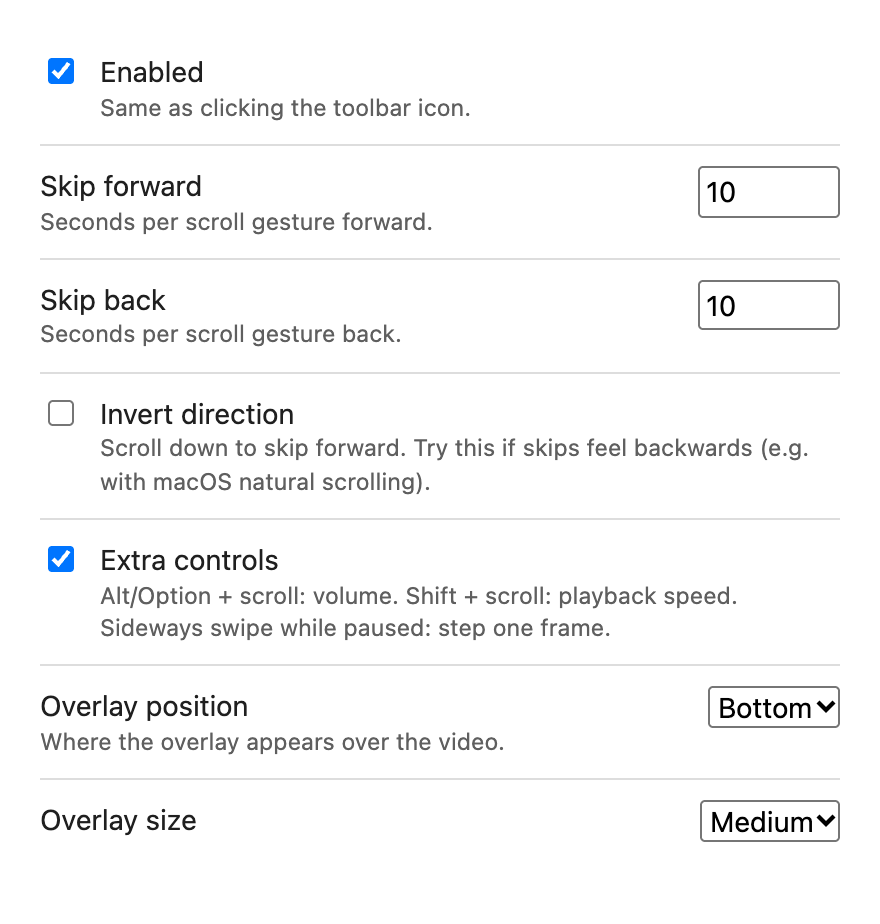
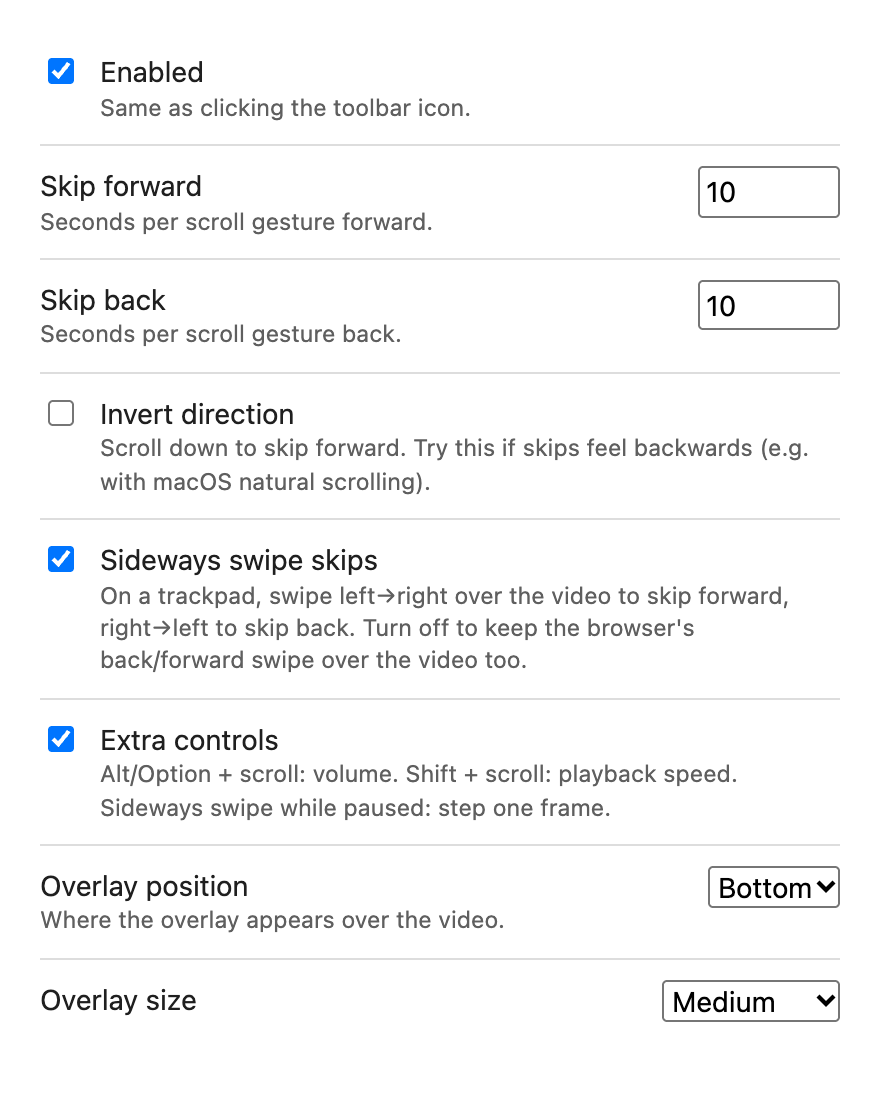
Skip on sideways trackpad swipes; take direction from the whole gesture
Mac trackpad users swipe sideways over the video. Those swipes were
passed to the browser while playing, so nothing skipped: Chrome
rubber-banded the page (left->right) or went back a page (right->left).

- Sideways swipes over the player now skip (fingers left->right =
  forward), behind a new "Sideways swipe skips" setting (horizontalSkip,
  default on). Paused + extra controls still steps one frame.
- Skip direction comes from the gesture's summed dx/dy instead of the
  single event that crossed MIN_GESTURE_PX: a wobbly sideways swipe
  could otherwise skip the wrong way.

Changed region(s): [[0.0307, 0.0303, 0.9511, 0.9394], [0.767, 0.1515, 0.9511, 0.3636], [0.0307, 0.8788, 0.2455, 0.9394]]

diff --git a/content.js b/content.js
@@ -286,6 +286,13 @@
     showToast(player, direction > 0 ? 'Next frame' : 'Previous frame', position(video), progressOf(video));
   }
 
+  // Skip direction from a movement: up or fingers left→right = forward, unless inverted.
+  // The larger axis wins, so it works for one event and for a whole (wobbly) gesture alike.
+  function skipDirection(dx, dy) {
+    const forward = Math.abs(dx) > Math.abs(dy) ? dx > 0 : dy < 0;
+    return forward !== settings.invert ? 1 : -1;
+  }
+
   // Decide what this wheel event means, or null to let the page handle it.
   function classify(e, video) {
     const horizontal = Math.abs(e.deltaX) > Math.abs(e.deltaY);
@@ -300,13 +307,17 @@
       return { action: 'volume', direction: e.deltaY < 0 ? 1 : -1, delta: e.deltaY };
     }
     if (horizontal) {
-      // While playing, sideways swipes stay the browser's (history back/forward).
-      if (!settings.modifierControls || !video.paused) return null;
-      return { action: 'frame', direction: e.deltaX > 0 ? 1 : -1, delta: e.deltaX };
+      // Paused: one frame per swipe (an extra control).
+      if (video.paused && settings.modifierControls) {
+        return { action: 'frame', direction: e.deltaX > 0 ? 1 : -1, delta: e.deltaX };
+      }
+      // Trackpads: fingers left→right skips forward. Over the player this replaces the browser's
+      // back/forward swipe; with the setting off, sideways swipes stay the browser's.
+      if (!settings.horizontalSkip || !e.deltaX) return null;
+      return { action: 'skip', direction: skipDirection(e.deltaX, 0), delta: e.deltaX };
     }
     if (!e.deltaY) return null;
-    const up = e.deltaY < 0;
-    return { action: 'skip', direction: up !== settings.invert ? 1 : -1, delta: e.deltaY };
+    return { action: 'skip', direction: skipDirection(0, e.deltaY), delta: e.deltaY };
   }
 
   function handleWheel(e) {
@@ -331,17 +342,20 @@
     // Alt pressed during a scroll), so pressing a modifier is never silently swallowed.
     const now = Date.now();
     if (now - lastWheel > GESTURE_GAP_MS || intent.action !== gesture.action) {
-      gesture = { action: intent.action, distance: 0, done: false };
+      gesture = { action: intent.action, distance: 0, sumX: 0, sumY: 0, done: false };
     }
     lastWheel = now;
     if (gesture.done) return;
     // Act once the gesture has moved far enough; tiny accidental touches never add up to it.
     const unit = e.deltaMode === 1 ? LINE_PX : e.deltaMode === 2 ? PAGE_PX : 1;
     gesture.distance += Math.abs(intent.delta) * unit;
+    gesture.sumX += e.deltaX * unit;
+    gesture.sumY += e.deltaY * unit;
     if (gesture.distance < MIN_GESTURE_PX) return;
     gesture.done = true;
 
-    if (intent.action === 'skip') skip(player, video, intent.direction, now);
+    // A trackpad swipe wobbles between axes event by event; its overall direction decides.
+    if (intent.action === 'skip') skip(player, video, skipDirection(gesture.sumX, gesture.sumY), now);
     else if (intent.action === 'volume') changeVolume(player, video, intent.direction);
     else if (intent.action === 'speed') changeSpeed(player, video, intent.direction);
     else stepFrame(player, video, intent.direction);

diff --git a/options.html b/options.html
@@ -34,6 +34,10 @@
     <span>Invert direction<small>Scroll down to skip forward. Try this if skips feel backwards (e.g. with macOS natural scrolling).</small></span>
   </label>
   <label>
+    <input type="checkbox" id="horizontalSkip">
+    <span>Sideways swipe skips<small>On a trackpad, swipe left→right over the video to skip forward, right→left to skip back. Turn off to keep the browser's back/forward swipe over the video too.</small></span>
+  </label>
+  <label>
     <input type="checkbox" id="modifierControls">
     <span>Extra controls<small>Alt/Option + scroll: volume. Shift + scroll: playback speed. Sideways swipe while paused: step one frame.</small></span>
   </label>

diff --git a/defaults.js b/defaults.js
@@ -5,6 +5,7 @@ const YSS_DEFAULTS = Object.freeze({
   skipForward: 10, // seconds per forward scroll gesture
   skipBack: 10, // seconds per backward scroll gesture
   invert: false, // true: scroll down = forward (for people who find the default backwards)
+  horizontalSkip: true, // sideways swipe (trackpad) over the player skips; off = browser back/forward swipe
   modifierControls: true, // Alt+scroll = volume, Shift+scroll = speed, sideways swipe while paused = frame step
   toastPosition: 'bottom', // 'bottom' | 'center' | 'top'
   toastSize: 'medium', // 'x-small' | 'small' | 'medium' | 'large' | 'x-large'

diff --git a/README.md b/README.md
@@ -4,6 +4,7 @@ A small browser extension that lets you skip forward or backward in a YouTube vi
 
 - Scroll **up** over the video → skip **forward** 10 seconds
 - Scroll **down** over the video → skip **backward** 10 seconds
+- On a trackpad, swipe **left→right** over the video → skip **forward**, **right→left** → skip **backward**
 
 (Both lengths can be set separately.)
 
@@ -15,7 +16,8 @@ A small panel over the player confirms each skip: how far the video actually mov
 
 - **One gesture = one skip**, even with trackpad momentum scrolling. The page never scrolls underneath the player while you skip. Pressing a modifier mid-scroll (say, Alt for volume) counts as a new gesture, so it isn't swallowed.
 - **No accidental skips**: a gesture has to move at least a little (15 px, a fraction of one wheel notch) before it acts, so a resting finger on a Magic Mouse or a brushed trackpad does nothing.
-- **Settings**: forward and back skip lengths, invert direction, extra controls, overlay position and size, and on/off.
+- **Trackpad friendly**: up/down and sideways swipes both skip. A wobbly swipe counts in its overall direction, not the direction of a single event.
+- **Settings**: forward and back skip lengths, invert direction, sideways swipe skipping, extra controls, overlay position and size, and on/off.
 - **On/off from the toolbar**: click the extension icon. An `OFF` badge shows when it's disabled.
 - **Extra controls** (can be turned off):
   - Alt/Option + scroll: volume
@@ -30,7 +32,7 @@ A small panel over the player confirms each skip: how far the video actually mov
   - Ads can't be skipped through.
   - Scrolling the player's quality/speed menus scrolls the menu.
   - Hover previews in the feed are ignored.
-  - Sideways swipes while playing still go back/forward in history.
+  - Outside the video, two-finger back/forward swipes still navigate (or everywhere, with "Sideways swipe skips" off).
   - Forward skips stop just before the end, so they don't trigger autoplay of the next video.
 - **Accessible**: the toast is announced to screen readers (`role="status"`).
 - **Private**: the only permission is `storage` (to save your settings). No tracking and no network requests.
@@ -62,7 +64,8 @@ Right-click the toolbar icon → **Options** (or use the **Details → Extension
 | Enabled          | on      | Same as clicking the toolbar icon                                    |
 | Skip forward     | 10      | Seconds per forward scroll gesture (1–600)                           |
 | Skip back        | 10      | Seconds per backward scroll gesture (1–600)                          |
-| Invert direction | off     | Scroll down = forward. Try it if the default feels backwards, e.g. with macOS natural scrolling |
+| Invert direction | off     | Scroll down = forward (and right→left = forward). Try it if the default feels backwards, e.g. with macOS natural scrolling |
+| Sideways swipe skips | on  | Sideways trackpad swipes over the video skip. Off: they stay the browser's back/forward swipe |
 | Extra controls   | on      | Alt+scroll volume, Shift+scroll speed, sideways swipe while paused for one frame |
 | Overlay position | Bottom  | Bottom, Centre or Top of the player                                  |
 | Overlay size     | Medium  | Extra small (0.65×), Small (0.8×), Medium, Large (1.3×) or Extra large (1.6×) |

diff --git a/CLAUDE.md b/CLAUDE.md
@@ -34,9 +34,10 @@ permission is `storage`. No network, no build step for the extension itself.
   `document_idle`. The background has both `service_worker` (Chrome) and `scripts` (Firefox),
   which is deliberate. `browser_specific_settings.gecko` is for Firefox.
 - `defaults.js`: `YSS_DEFAULTS` (`enabled`, `skipForward`, `skipBack`, `invert`,
-  `modifierControls`, `toastPosition`, `toastSize`), shared by `content.js` and `options.js`.
-  Settings live in `chrome.storage.sync`. 1.2.x stored one `skipSeconds`; `migrateSettings()` in
-  `background.js` copies it to both lengths on update. Keep migrations when renaming settings.
+  `horizontalSkip`, `modifierControls`, `toastPosition`, `toastSize`), shared by `content.js`
+  and `options.js`. Settings live in `chrome.storage.sync`. 1.2.x stored one `skipSeconds`;
+  `migrateSettings()` in `background.js` copies it to both lengths on update. Keep migrations
+  when renaming settings.
 - `content.js`: tuning constants at the top (`GESTURE_GAP_MS`, `ACCUMULATE_MS`,
   `END_GUARD_SECONDS`, `MIN_GESTURE_PX`, steps, `TOAST_POSITIONS`/`TOAST_SCALES`). A
   capture-phase `wheel` listener: `findTarget` (player and video under the cursor) → `classify`
@@ -76,8 +77,11 @@ permission is `storage`. No network, no build step for the extension itself.
   (handles trackpad momentum), or when the classified action changes (a modifier pressed
   mid-scroll). Events inside a gesture are still `preventDefault()`ed, so the page
   never scrolls under the player.
-- Horizontal swipes are passed through while playing (history swipe). While paused they step one
-  frame, if `modifierControls` is on.
+- Horizontal swipes over the player skip while playing (`horizontalSkip`, default on, owner's
+  choice: fingers left→right = forward). With it off they're passed through (history swipe).
+  While paused they step one frame, if `modifierControls` is on. Skip direction comes from the
+  whole gesture's summed dx/dy (`skipDirection`), never from the single event that crossed
+  `MIN_GESTURE_PX`, because trackpad swipes wobble between axes.
 - Clamp seeks and frame steps (both go through `seek()`) to `video.seekable` (live/DVR), and
   stop forward moves `END_GUARD_SECONDS` before the end (no autoplay).
 - Only the `storage` permission (approved by the owner); never add network access or other

diff --git a/CHANGELOG.md b/CHANGELOG.md
@@ -8,6 +8,11 @@ Releases follow the project's git tags. Entries were reconstructed from the comm
 
 ## [1.3.0] - 2026-11-02
 
+- Sideways trackpad swipes over the video skip (left→right forward, right→left back), with a
+  "Sideways swipe skips" setting. Before, they were passed to the browser, which rubber-banded
+  the page or went back a page.
+- A wobbly trackpad swipe skips in its overall direction; before, one mostly-vertical event in a
+  sideways swipe could make it skip the wrong way.
 - Separate forward and back skip lengths (settings from 1.2.x carry over to both).
 - Overlay position (bottom, centre, top) and size (extra small, small, medium, large, extra
   large) settings.
